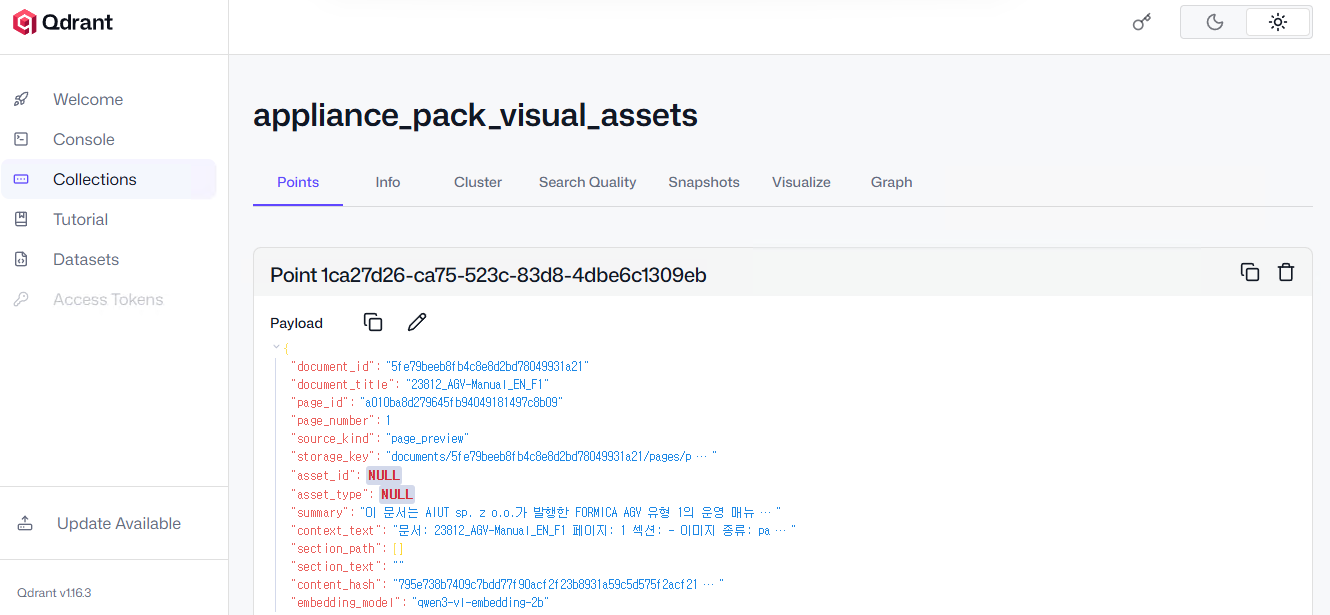
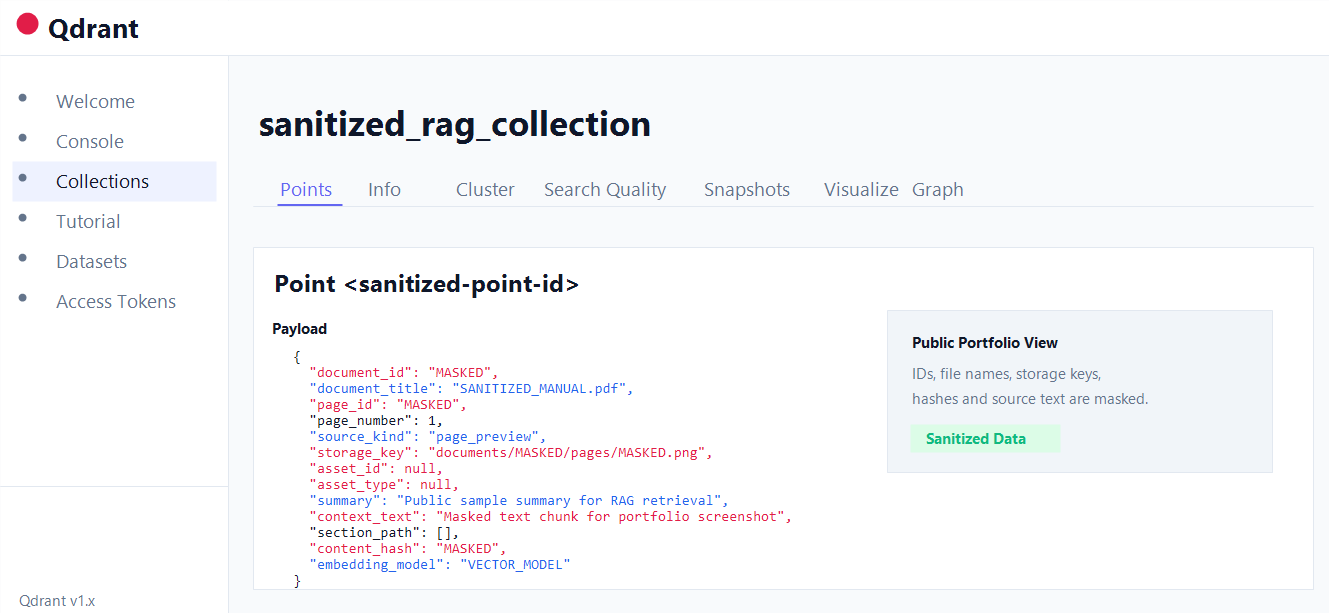
Sanitize AI infra project visuals

diff --git a/src/data/profile.ts b/src/data/profile.ts
@@ -306,16 +306,7 @@ export const projects: Project[] = [
     result:
       'H100 GPU 서버에 CUDA와 vLLM 기반 로컬 LLM 서빙 환경을 구축하고, Qwen3 72B 모델을 안정적으로 구동할 수 있도록 구성했습니다. 기존 Ollama 환경을 vLLM으로 전환하고 tensor parallel 및 토큰 설정을 최적화하여 답변 속도를 개선했으며, Neo4j 기반 API 메타데이터와 MCP 서버 연동 로직을 적용해 설비 질문 시 필요한 API 흐름과 값을 추출하고 응답하는 업무형 디지털트윈 챗봇 환경을 구현했습니다.',
     techStack: ['Python', 'FastAPI', 'Docker', 'VLLM', 'CUDA', 'ReactAgent', 'Neo4j', 'MCP', 'Hugging Face'],
-    visualNote:
-      'Neo4j 화면은 PoC 테스트 환경에서 API 메타데이터 관계 모델링을 설명하기 위해 재구성한 화면입니다.',
-    visuals: [
-      {
-        title: 'Neo4j API 메타데이터 Graph',
-        description: 'API 메타데이터를 노드와 관계로 모델링해 유사 API, 선행/후속 API, 의존 관계를 LLM이 문맥에 맞게 조회할 수 있도록 구성',
-        imageUrl: 'projects/chatbot/neo4j-api-graph.png',
-        alt: 'Neo4j Graph DB 기반 API 메타데이터 관계 모델링',
-      },
-    ],
+    visuals: [],
   },
   {
     title: '삼성 SMD 제조 장비 자산화 RAG 구축 POC',